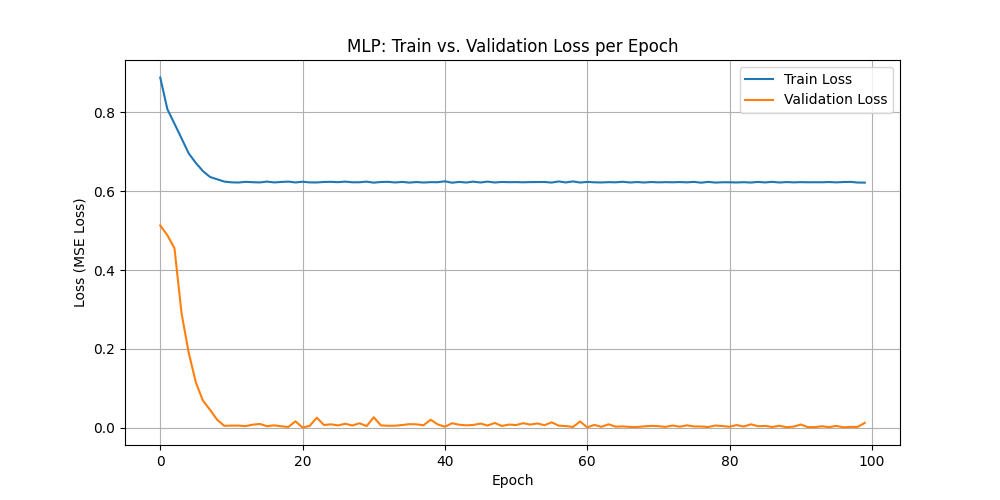
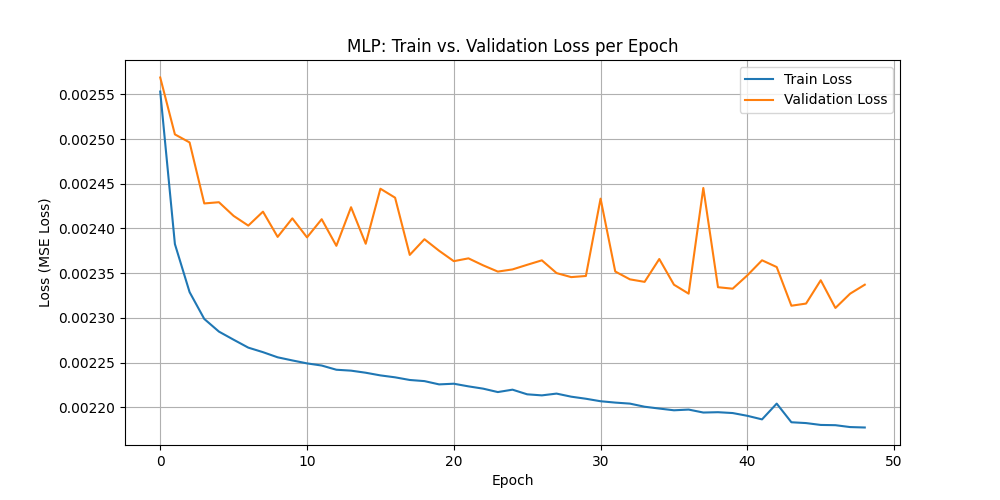
fix dataset problems

diff --git a/exported_models/neural_networks/data_preparation.py b/exported_models/neural_networks/data_preparation.py
@@ -18,19 +18,23 @@ from sklearn.preprocessing import StandardScaler
 import joblib
 from torch.utils.data import TensorDataset, random_split
 
-def prepare_data(csv_path, scalers_dir="trained_models", val_split_ratio=0.2):
+# <--- MUDANÇA: Adicionado 'normalize_data=True' como parâmetro
+def prepare_data(csv_path, scalers_dir="trained_models", val_split_ratio=0.2, normalize_data=True):
     """
-    Reads the dataset.csv, transforms, normalizes, and SPLITS it into train/validation.
+    Reads the dataset.csv, transforms, (optionally) normalizes, 
+    and SPLITS it into train/validation.
     
-    Saves the 'scaler' objects for future use.
+    Saves the 'scaler' objects for future use if normalization is enabled.
     
     Args:
         csv_path (str): Path to the CSV file.
         scalers_dir (str): Directory to save the scaler .joblib files.
         val_split_ratio (float): Proportion of the dataset to use for validation (e.g., 0.2).
+        normalize_data (bool): If True, applies StandardScaler. If False, uses raw data.
         
     Returns:
         tuple: (train_data, val_data, input_scaler, target_scaler)
+               (Scalers will be None if normalize_data is False)
                On failure, returns (None, None, None, None)
     """
     print(f"Reading and processing the dataset: {csv_path}")
@@ -65,21 +69,38 @@ def prepare_data(csv_path, scalers_dir="trained_models", val_split_ratio=0.2):
     final_inputs_df = pd.concat(all_inputs)
     final_targets_df = pd.concat(all_targets)
 
-    print("Normalizing data (StandardScaler)...")
-    input_scaler = StandardScaler()
-    target_scaler = StandardScaler()
-    input_scaler.fit(final_inputs_df)
-    target_scaler.fit(final_targets_df)
-    inputs_scaled = input_scaler.transform(final_inputs_df)
-    targets_scaled = target_scaler.transform(final_targets_df)
-    os.makedirs(scalers_dir, exist_ok=True)
-    joblib.dump(input_scaler, os.path.join(scalers_dir, 'input_scaler.joblib'))
-    joblib.dump(target_scaler, os.path.join(scalers_dir, 'target_scaler.joblib'))
-    print(f"Scalers saved to: {scalers_dir}")
+    # <--- MUDANÇA: Bloco condicional para normalização ---
+    if normalize_data:
+        print("Normalizing data (StandardScaler)...")
+        input_scaler = StandardScaler()
+        target_scaler = StandardScaler()
+        
+        input_scaler.fit(final_inputs_df)
+        target_scaler.fit(final_targets_df)
+        
+        # Usa os dados normalizados
+        inputs_to_tensor = input_scaler.transform(final_inputs_df)
+        targets_to_tensor = target_scaler.transform(final_targets_df)
+        
+        os.makedirs(scalers_dir, exist_ok=True)
+        joblib.dump(input_scaler, os.path.join(scalers_dir, 'input_scaler.joblib'))
+        joblib.dump(target_scaler, os.path.join(scalers_dir, 'target_scaler.joblib'))
+        print(f"Scalers saved to: {scalers_dir}")
+    
+    else:
+        print("Normalization skipped. Using raw data.")
+        # Define scalers como None para consistência no retorno
+        input_scaler = None
+        target_scaler = None
+        
+        # Usa os dados brutos (convertidos para numpy array)
+        inputs_to_tensor = final_inputs_df.values
+        targets_to_tensor = final_targets_df.values
+    # <--- FIM DA MUDANÇA ---
 
-    # Convert the NORMALIZED data to Tensors
-    inputs_tensor = torch.tensor(inputs_scaled, dtype=torch.float32)
-    targets_tensor = torch.tensor(targets_scaled, dtype=torch.float32)
+    # Converte os dados (normalizados ou brutos) para Tensores
+    inputs_tensor = torch.tensor(inputs_to_tensor, dtype=torch.float32)
+    targets_tensor = torch.tensor(targets_to_tensor, dtype=torch.float32)
 
     print(f"Processing complete. Total of {len(inputs_tensor)} samples generated.")
 
@@ -96,5 +117,5 @@ def prepare_data(csv_path, scalers_dir="trained_models", val_split_ratio=0.2):
     
     print(f"Split complete: {train_len} train samples, {val_len} validation samples.")
 
-    # Return the already split data and the scalers
+    # Retorna os dados divididos e os scalers (que podem ser None)
     return train_data, val_data, input_scaler, target_scaler

diff --git a/exported_models/neural_networks/training_runner.py b/exported_models/neural_networks/training_runner.py
@@ -54,6 +54,7 @@ def train_model(model, train_data, val_data, epochs, learning_rate, batch_size):
         # --- Training Phase ---
         model.train() # Puts the model in "train" mode
         train_loss = 0.0
+        # m = 0
         
         for x_batch, y_batch in train_loader:
             # 1. Make the prediction
@@ -70,15 +71,20 @@ def train_model(model, train_data, val_data, epochs, learning_rate, batch_size):
             
             # 5. Update the network weights
             optimizer.step()
-            
+            # print(f"Training Loss {loss.item()}")
+
             train_loss += loss.item()
+            # m += 1
             
+        # print(f"Train Loss antes de dividir {train_loss}")
         train_loss /= len(train_loader)
-        train_losses.append(train_loss)
+        if epoch > 0:   # Put away the first epoch
+            train_losses.append(train_loss)
 
         # --- Validation Phase ---
         model.eval() # Puts the model in "evaluation" mode
         val_loss = 0.0
+        # n = 0
         
         with torch.no_grad(): # Disables gradient calculation (saves computation)
             for x_batch, y_batch in val_loader:
@@ -86,12 +92,17 @@ def train_model(model, train_data, val_data, epochs, learning_rate, batch_size):
                 pred = model(x_batch)
                 # 2. Calculate the error (Loss)
                 loss = criterion(pred, y_batch)
+                # print(f"Validation Loss {loss.item()}")
                 val_loss += loss.item()
+                # n += 1
                 
+        # print(f"Validation Loss antes de dividir {val_loss}")
         val_loss /= len(val_loader)
-        val_losses.append(val_loss)
+        if epoch > 0:   # Put away the first epoch
+            val_losses.append(val_loss)
 
         # Print progress
         print(f"Epoch {epoch+1}/{epochs}, Train Loss: {train_loss:.6f}, Validation Loss: {val_loss:.6f}")
+        # print(n, m)
 
     return train_losses, val_losses

diff --git a/exported_models/neural_networks/main.py b/exported_models/neural_networks/main.py
@@ -37,7 +37,8 @@ def main(args):
     train_data, val_data, _, _ = prepare_data(
         args.csv_path, 
         scalers_dir=save_dir,
-        val_split_ratio=args.val_split
+        val_split_ratio=args.val_split,
+        normalize_data=True
     )
     
     if train_data is None:
